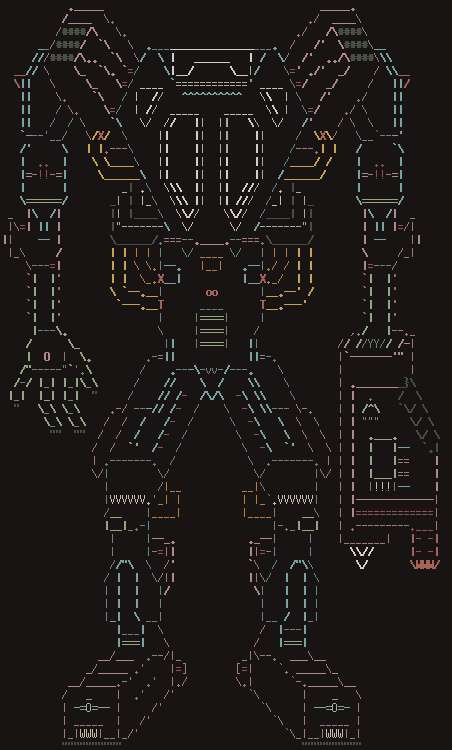
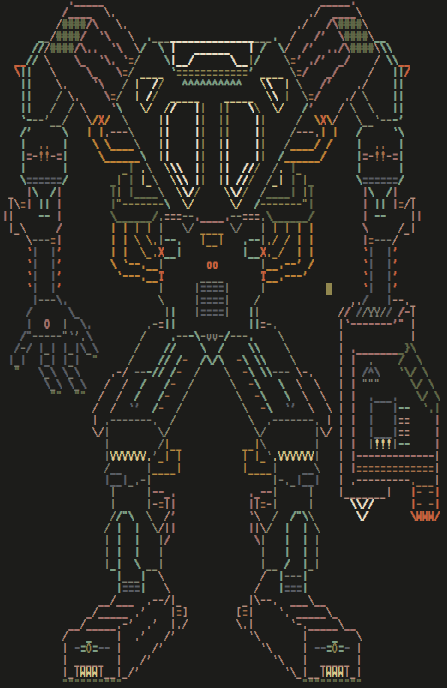
new stuffs, art, cooking, ascii, new section WIP

diff --git a/_includes/scrot_head.html b/_includes/scrot_head.html
@@ -1,0 +1,72 @@
+<head>
+  <meta charset="utf-8">
+  <meta http-equiv="X-UA-Compatible" content="IE=edge">
+	<meta name="viewport"
+		content="width=device-width, minimum-scale=1.0, initial-scale=1.0, user-scalable=yes">
+	<title>venam's scrots</title>
+	<meta name="description" content="{% if page.excerpt %}{{ page.excerpt | strip_html | strip_newlines | truncate: 160 }}{% else %}{{ site.description }}{% endif %}">
+	<link rel="shortcut icon" href="{{site.baseurl}}/assets/favicon.ico">
+	<link rel="canonical" href="{{ page.url | replace:'index.html','' | prepend: site.baseurl | prepend: site.url }}">
+	<link rel="alternate" type="application/rss+xml" title="{{ site.title }}" href="{{ "/feed.xml" | prepend: site.baseurl | prepend: site.url }}" />
+
+	<style>
+
+body {
+	margin: 0px;
+	padding: 0px;
+
+	background: #e6e3c6; /* For browsers that do not support gradients */
+	background: -webkit-linear-gradient(left, red , yellow); /* For Safari 5.1 to 6.0 */
+	background: -o-linear-gradient(right, red, yellow); /* For Opera 11.1 to 12.0 */
+	background: -moz-linear-gradient(right, red, yellow); /* For Firefox 3.6 to 15 */
+	background: linear-gradient(to right, #909090 3%, #e6e3c6 15%, #e6e3c6 85%, #909090 97%, #909090 100%); /* Standard syntax */
+}
+
+.header_scrot {
+	margin-top: 3em;
+	padding: 1ex;
+	text-align: center;
+	background-color: #e6e3c6;
+	border-top: 1px solid #303030;
+	border-bottom: 1px solid #303030;
+	/*box-shadow: 0px 0px 10px #212121;*/
+	position: relative;
+	z-index: 100;
+}
+
+.header_venam {
+	text-align: center;
+	position: relative;
+	background-color: #e6e3c6;
+	margin: auto;
+	width: 7.6ex;
+	padding-left: 7em;
+	top: -2ex;
+	z-index: 1;
+}
+
+.svg_images {
+	width: 8em;
+	-ms-transform: rotate(-20deg); /* IE 9 */
+	-webkit-transform: rotate(-20deg); /* Chrome, Safari, Opera */
+	transform: rotate(-20deg);
+	position: relative;
+	top: -4em;
+	left: -3em;
+	z-index: 2;
+}
+
+.header_logo {
+	z-index: 0;
+	position: relative;
+	margin-top: -10em;
+	left: 2em;
+}
+
+.header_big {
+	font-size: 10em;
+}
+
+	</style>
+
+</head>

diff --git a/_layouts/scrot.html b/_layouts/scrot.html
@@ -1,0 +1,38 @@
+<!DOCTYPE html>
+<html>
+<!-- 
+	This is my screenshot page
+	Say cheese!
+-->
+
+<!--
+	Here comes the head
+	prepare yourself
+-->
+  {% include scrot_head.html %}
+<!--
+	Nah, it's not the best head I've ever received.
+	!! Nasty Ψ(｀▽´)Ψ !!
+-->
+
+<!--
+	Here comes the sexy body
+-->
+  <body>
+
+	  {% include header_scrot.html %}
+
+
+	<!--
+	 For the plant of the subject (not meat 'cause I'm vegetarian)
+	-->
+	<div class="page-content">
+		<div class="wrapper">
+			<div class="content" id="blog-content">
+
+			</div>
+		</div>
+	</div>
+  </body>
+
+</html>

diff --git a/_includes/header_scrot.html b/_includes/header_scrot.html
@@ -1,0 +1,11 @@
+
+<div class='header_scrot'>
+	<div class='header_venam'>venam's</div>
+	<object id="header_camera" class='svg_images' type="image/svg+xml" data="assets/camera.svg"></object>
+	<div class='header_logo'><span class="header_big">S</span>CROTS</div>
+	<div class='links'>
+		<a href=#>Blog</a>
+		<a href=#>Ascii</a>
+		<a href=#>Art</a>
+	</div>
+</div>

diff --git a/_includes/all_foods.html b/_includes/all_foods.html
@@ -81,3 +81,5 @@
 {% include recipe_template.html name="Special Recipe I" img="42" description="" %}
 
 {% include recipe_template.html name="Ratatouille" img="43" description="A spicy and fresh ratatouille" %}
+
+{% include recipe_template.html name="Vegetable Couscous" img="44" description="Couscous with some vegetables on top." %}

diff --git a/_includes/all_arts.html b/_includes/all_arts.html
@@ -1,5 +1,5 @@
 <div class="post-content">
-	{% for i in (1..75) %}
+	{% for i in (1..76) %}
 	<div class="art_center">
 		<a href="{{site.baseurl}}/assets/arts/art{{ i }}.jpg">
 			<img class="artImage" src="{{site.baseurl}}/assets/arts/small/art{{ i }}.jpg" alt={{i}}  />

diff --git a/_includes/all_asciiart.html b/_includes/all_asciiart.html
@@ -1,4 +1,4 @@
-{% for i in (1..25) %}
+{% for i in (1..26) %}
 	<div class="ascii">
 		<a href="{{site.baseurl}}/assets/ascii/as{{ i }}.png">
 			<img class="ascii_image" src="{{site.baseurl}}/assets/ascii/as{{ i }}.png" alt={{i}}  />

diff --git a/scrot.html b/scrot.html
@@ -1,0 +1,3 @@
+---
+layout: scrot
+---
